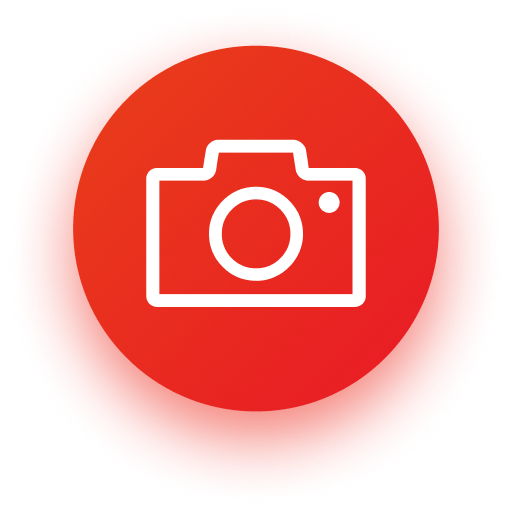
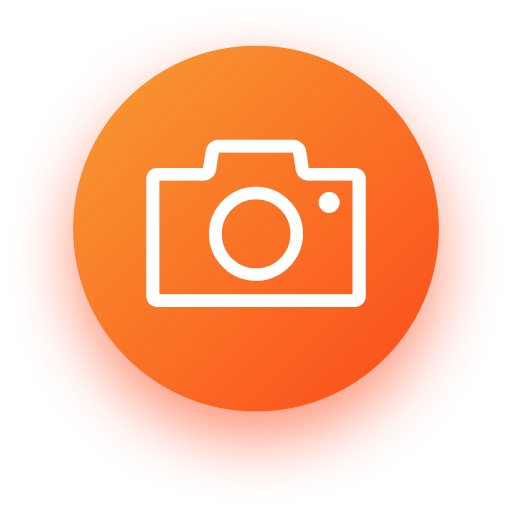
(+) camera view

diff --git a/src/containers/TakePhoto.js b/src/containers/TakePhoto.js
@@ -1,7 +1,10 @@
 import React from 'react';
-import { StyleSheet, Text, View , TouchableOpacity } from 'react-native';
+import { StyleSheet, Text, View , TouchableOpacity, Image, Form } from 'react-native';
 import { Camera, Permissions } from 'expo';
 import { connect } from 'react-redux'
+import flip from '../assets/flip_camera.png'
+import flash from '../assets/flash_enable.png'
+import photo from '../assets/take_photo.png'
 
 class TakePhoto extends React.Component {
   constructor(props) {
@@ -20,7 +23,7 @@ class TakePhoto extends React.Component {
   static navigationOptions = ({navigation}) => ({
     headerTitle: 'Фото',
     headerStyle: {
-      backgroundColor: "crimson"
+      backgroundColor: "#FC4A1A"
     },
     headerTitleStyle: { 
       color: 'white', 
@@ -31,8 +34,17 @@ class TakePhoto extends React.Component {
     }
   })
 
+  takePicture = () => {
+    if (this.camera) {
+        this.camera.takePictureAsync()
+            .then(data => this.props.navigation.goBack())
+    }
+  }
+
   render() {
     const { hasCameraPermission } = this.state;
+    let { type, flashMode} = this;
+
     if (hasCameraPermission === null) {
       return <View />;
     } else if (hasCameraPermission === false) {
@@ -40,7 +52,7 @@ class TakePhoto extends React.Component {
     } else {
       return (
         <View style={{ flex: 1 }}>
-          <Camera style={{ height: 360 }} type={this.state.type}>
+          <Camera style={{ height: 360 }} {...{type, flashMode}}>
             <View
               style={{
                 flex: 1,
@@ -51,9 +63,28 @@ class TakePhoto extends React.Component {
           </Camera>
           <TouchableOpacity
             style={{
-              flex: 0.1,
-              alignSelf: 'flex-end',
+              flex: 1,
+              right: 0,
+              left: 0,
+              bottom: 0,
+              position: 'absolute',
               alignItems: 'center',
+              paddingBottom: 17
+            }}
+            onPress={() => { this.takePicture }}>
+            <Image
+              style={{width: 160, height: 160}}
+              source={photo}
+            />
+          </TouchableOpacity>
+          <TouchableOpacity
+            style={{
+              flex: 1,
+              left: 0,
+              bottom: 0,
+              position: 'absolute',
+              alignItems: 'center',
+              paddingBottom: 36
             }}
             onPress={() => {
               this.setState({
@@ -62,10 +93,31 @@ class TakePhoto extends React.Component {
                   : Camera.Constants.Type.back,
               });
             }}>
-            <Text
-              style={{ fontSize: 18, marginBottom: 10, color: 'white' }}>
-              {' '}Flip{' '}
-            </Text>
+            <Image
+              style={{width: 100, height: 100}}
+              source={flash}
+            />
+          </TouchableOpacity>
+          <TouchableOpacity
+            style={{
+              flex: 1,
+              right: 0,
+              bottom: 0,
+              position: 'absolute',
+              alignItems: 'center',
+              paddingBottom: 36
+            }}
+            onPress={() => {
+              this.setState({
+                type: this.state.type === Camera.Constants.Type.back
+                  ? Camera.Constants.Type.front
+                  : Camera.Constants.Type.back,
+              });
+            }}>
+            <Image
+              style={{width: 100, height: 100}}
+              source={flip}
+            />
           </TouchableOpacity>
         </View>
       );

diff --git a/src/containers/StarterScreen.js b/src/containers/StarterScreen.js
@@ -1,6 +1,7 @@
 import React from 'react';
 import { StyleSheet, View, TouchableOpacity, Image, Text, Button} from 'react-native';
 import { LinearGradient } from 'expo';
+import logo from '../assets/logo.png'
 
 class StarterScreen extends React.Component {
 
@@ -15,16 +16,22 @@ class StarterScreen extends React.Component {
 
     return (
       <View>
-      <LinearGradient
-        colors={['#F79D33', '#FC4A1A']}
-        style={{ padding: 15, alignItems: 'center', height: 650 }}>
-        <Button
-          style={styles.login}
-          onPress={() => { navigate('AuthScreen',)}}
-          title="Войти"
-       />
-      </LinearGradient>
-    </View>
+        <LinearGradient
+          colors={['#F79D33', '#FC4A1A']}
+          style={{ padding: 15, alignItems: 'center', height: 650 }}>
+          <Image
+            style={{width: 150, height: 150, marginTop: 85}}
+            source={logo}
+          />
+          <Text style={styles.title}>Phoster</Text>
+          <Text style={styles.text}>Приложение для мгновенного обмена фотографиями со случайными людьми</Text>
+          <TouchableOpacity onPress={() => { navigate('AuthScreen',)}}>
+            <View style={styles.login}>
+              <Text style={{fontSize: 18, marginTop: 7, color: "#333333"}}>Войти</Text>
+            </View>
+          </TouchableOpacity>
+        </LinearGradient>
+      </View>
     );
   }
 }
@@ -34,28 +41,34 @@ const styles = StyleSheet.create({
     flex: 1,
     alignItems: 'center'
   },
-  header: {
-    color: '#f1841e',
-    fontWeight: 'bold',
-    fontSize: 30,
-    paddingTop: 50,
-    marginBottom: 110,
-    shadowColor: '#f8983f',
-  },
-  line: {
-    borderBottomColor: '#E91926',
-    borderBottomWidth: 2
+  login:{
+    marginTop: '30%',
+    paddingLeft: 80,
+    paddingRight: 80,
+    height: 42,
+    borderRadius: 21,
+    backgroundColor: 'white',
   },
   opaciti:{
     position: "absolute",
-    bottom: 0,
-    marginLeft: 140
+    bottom: 0
   },
-  login:{
-    width:80,
-    height:80,
-    borderRadius: 21,
-    backgroundColor: 'white'
+  text: {
+    marginTop: '15%',
+    fontSize: 18,
+    color: "white",
+    fontWeight: '500',
+    textAlign:'center',
+    marginLeft: 20,
+    marginRight: 20
+  },
+  title: {
+    fontSize: 36,
+    color: "white",
+    fontWeight: 'bold',
+    textAlign:'center',
+    marginLeft: 20,
+    marginRight: 20
   }
 });
 

diff --git a/src/containers/MainScreen.js b/src/containers/MainScreen.js
@@ -1,5 +1,5 @@
 import React from 'react';
-import { StyleSheet, View , AsyncStorage, FlatList, TouchableOpacity, Image } from 'react-native';
+import { StyleSheet, View , AsyncStorage, FlatList, TouchableOpacity, Image, Text } from 'react-native';
 import { Actions } from '../actions/Actions'
 import { connect } from 'react-redux'
 import addImg from '../assets/add_photo.png'
@@ -51,7 +51,7 @@ class MainScreen extends React.Component {
   static navigationOptions = ({navigation}) => ({
     headerTitle: 'Лента',
     headerStyle: {
-      backgroundColor: "crimson"
+      backgroundColor: "#FC4A1A"
     },
     headerTitleStyle: { 
       color: 'white', 

diff --git a/src/containers/Login.js b/src/containers/Login.js
@@ -26,11 +26,8 @@ class Login extends React.Component {
   }
 
   static navigationOptions = {
-    headerStyle: {
-      backgroundColor: "#E91926",
-      borderBottomWidth: 0,
-      elevation: null,
-    },
+    header: null,
+    elevation: null
   };
 
   _handleLoginAction() {
@@ -90,6 +87,7 @@ const styles = StyleSheet.create({
   container: {
     flex: 1,
     alignItems: 'center',
+    paddingTop: 50,
     backgroundColor: '#E91926'
   },
 
